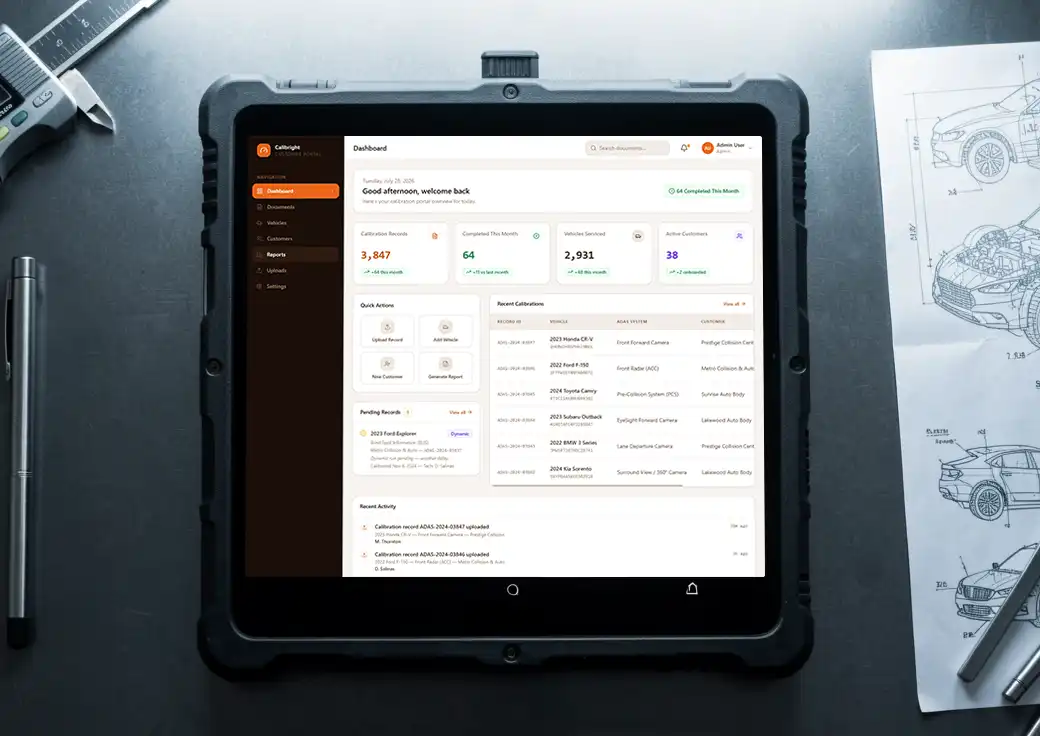
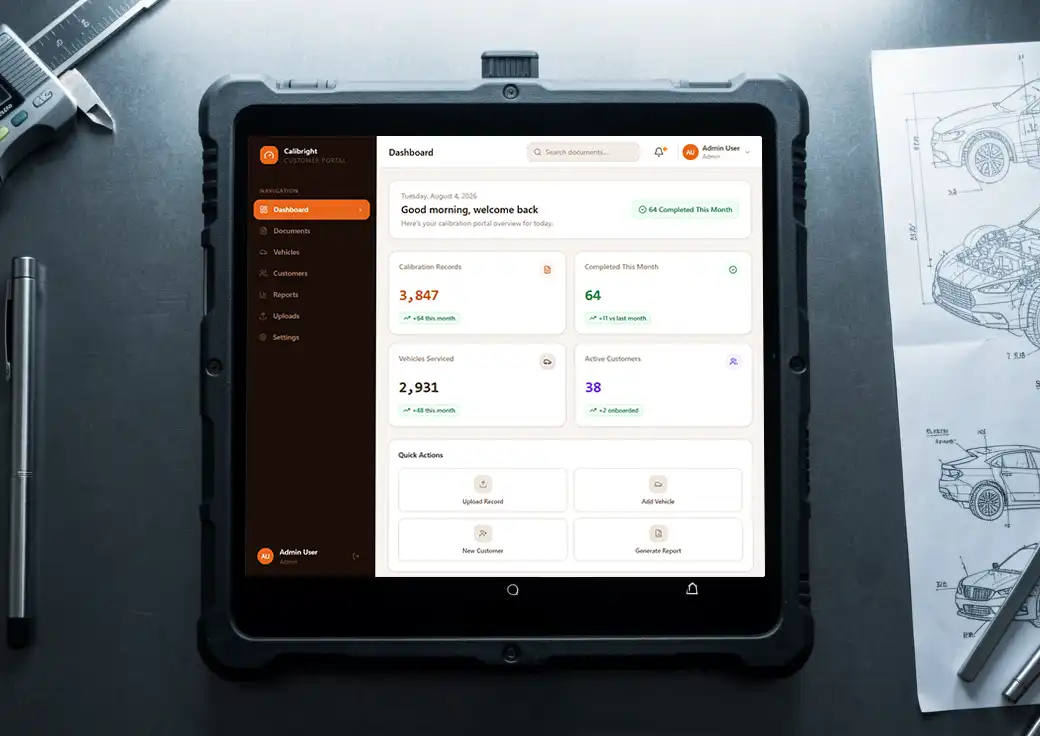
- added/replaced work gallery images - styled lightbox backdrop and navigation

diff --git a/src/config/projects.jsx b/src/config/projects.jsx
@@ -4,9 +4,9 @@ import ecPrecisionShineHero from "../assets/images/work/heros/ec-precision-shine
 
 // Gallery images (EC Precision Shine)
 // Small
-
+import ecPrecisionShineSM01 from "../assets/images/work/gallery/sm/ec-precision-shine-01_img.webp";
 // Large
-import ecPrecisionShineLG01 from "../assets/images/work/gallery/lg/ec-precision-shine_img.webp";
+import ecPrecisionShineLG01 from "../assets/images/work/gallery/lg/ec-precision-shine-01_img.webp";
 
 // Calibright ADAS Portal
 import calibrightPrev from "../assets/images/work/cards/calibright-preview_img.webp";
@@ -14,9 +14,9 @@ import calibrightHero from "../assets/images/work/heros/calibright-hero_img.webp
 
 // Gallery images (Calibright ADAS Portal)
 // Small
-
+import calibrightSM01 from "../assets/images/work/gallery/sm/calibright-01_img.webp";
 // Large
-import calibrightLG01 from "../assets/images/work/gallery/lg/calibright_img.webp";
+import calibrightLG01 from "../assets/images/work/gallery/lg/calibright-01_img.webp";
 
 
 // Enhanced Auto Leads
@@ -25,9 +25,9 @@ import enhancedLeadsHero from "../assets/images/work/heros/enhanced-automotive-l
 
 // Gallery images (Enhanced Auto Leads)
 // Small
-
+import enhancedLeadsSM01 from "../assets/images/work/gallery/sm/enhanced-automotive-leads-01_img.webp";
 // Large
-import enhancedLeadsLG01 from "../assets/images/work/gallery/lg/enhanced-automotive-leads_img.webp";
+import enhancedLeadsLG01 from "../assets/images/work/gallery/lg/enhanced-automotive-leads-01_img.webp";
 
 // Interactive Component Explorer
 import uiExplorerPrev from "../assets/images/work/cards/ui-explorer-preview_img.webp";
@@ -35,9 +35,9 @@ import uiExplorerHero from "../assets/images/work/heros/ui-explorer-hero_img.web
 
 // Gallery images (UI Explorer)
 // Small
-
+import uiExplorerSM01 from "../assets/images/work/gallery/sm/ui-explorer-01_img.webp";
 // Large
-import uiExplorerLG01 from "../assets/images/work/gallery/lg/ui-explorer_img.webp";
+import uiExplorerLG01 from "../assets/images/work/gallery/lg/ui-explorer-01_img.webp";
 
 import workExploreWorkPrev from "../assets/images/work/cards/explore-work-preview_img.webp";
 
@@ -195,8 +195,8 @@ export const PROJECTS = [
       ],
     },
     gallery: [
-      { sm: ecPrecisionShinePrev, lg: ecPrecisionShineLG01, alt: "EC Precision Shine homepage hero", caption: "Homepage hero with editorial service positioning" },
-      { sm: ecPrecisionShinePrev, lg: ecPrecisionShineLG01, alt: "EC Precision Shine service layout", caption: "Service showcase with high-contrast typography" },
+      { sm: ecPrecisionShineSM01, lg: ecPrecisionShineLG01, alt: "EC Precision Shine homepage hero", caption: "Homepage hero with editorial service positioning" },
+      { sm: ecPrecisionShineSM01, lg: ecPrecisionShineLG01, alt: "EC Precision Shine service layout", caption: "Service showcase with high-contrast typography" },
     ],
     stack: [
       { category: "Interface", items: ["React", "CSS Architecture", "Responsive Layouts"] },
@@ -321,8 +321,8 @@ export const PROJECTS = [
       ],
     },
     gallery: [
-      { sm: calibrightPrev, lg: calibrightLG01, alt: "Calibright ADAS Portal dashboard", caption: "Primary dashboard with status rail and job queue" },
-      { sm: calibrightPrev, lg: calibrightLG01, alt: "Calibright diagnostic workflow", caption: "Diagnostic context panel with progressive disclosure" },
+      { sm: calibrightSM01, lg: calibrightLG01, alt: "Calibright ADAS Portal dashboard", caption: "Primary dashboard with status rail and job queue" },
+      { sm: calibrightSM01, lg: calibrightLG01, alt: "Calibright diagnostic workflow", caption: "Diagnostic context panel with progressive disclosure" },
     ],
     stack: [
       { category: "Application", items: ["React", "TypeScript", "Component Architecture"] },
@@ -447,8 +447,8 @@ export const PROJECTS = [
       ],
     },
     gallery: [
-      { sm: enhancedLeadsPrev, lg: enhancedLeadsLG01, alt: "Enhanced Auto Leads platform", caption: "Lead-generation platform with estimator tools" },
-      { sm: enhancedLeadsPrev, lg: enhancedLeadsLG01, alt: "Payment estimator interface", caption: "Payment estimator with stepped form flow" },
+      { sm: enhancedLeadsSM01, lg: enhancedLeadsLG01, alt: "Enhanced Auto Leads platform", caption: "Lead-generation platform with estimator tools" },
+      { sm: enhancedLeadsSM01, lg: enhancedLeadsLG01, alt: "Payment estimator interface", caption: "Payment estimator with stepped form flow" },
     ],
     stack: [
       { category: "Interface", items: [...sharedStack.frontend] },
@@ -573,8 +573,8 @@ export const PROJECTS = [
       ],
     },
     gallery: [
-      { sm: uiExplorerPrev, lg: uiExplorerLG01, alt: "UI Explorer component catalog", caption: "Component explorer with live preview canvas" },
-      { sm: uiExplorerPrev, lg: uiExplorerLG01, alt: "UI Explorer theme switching", caption: "Theme switching demonstrating design token propagation" },
+      { sm: uiExplorerSM01, lg: uiExplorerLG01, alt: "UI Explorer component catalog", caption: "Component explorer with live preview canvas" },
+      { sm: uiExplorerSM01, lg: uiExplorerLG01, alt: "UI Explorer theme switching", caption: "Theme switching demonstrating design token propagation" },
     ],
     stack: [
       { category: "Interface", items: ["React", "CSS Architecture", "Animation Systems"] },

diff --git a/src/pages/Work/ProjectDetail.css b/src/pages/Work/ProjectDetail.css
@@ -78,6 +78,8 @@
   border-radius: 999px;
 }
 
+/* Media Queries */
+
 @media (width <= 1600px) {
   .section__hero-bg img {
     opacity: 0.5;
@@ -96,7 +98,7 @@
   }
 
   .section__hero-bg img {
-    opacity: 0.025;
+    opacity: 0.05;
   }   
 }
 
@@ -370,7 +372,7 @@
   margin: 0;
   padding: 0;
   border: 0;
-  background: color-mix(in srgb, #0a0a0a 78%, transparent);
+  background: url(../../assets/images/lines.png), color-mix(in srgb, #0a0a0a 78%, transparent);
   backdrop-filter: blur(10px);
   -webkit-backdrop-filter: blur(10px);
   cursor: none;
@@ -382,8 +384,8 @@
   display: flex;
   flex-direction: column;
   align-items: center;
-  width: min(100%, 72rem);
-  max-height: min(92vh, 56rem);
+  /* width: min(100%, 72rem); */
+  /* max-height: min(92vh, 56rem); */
   pointer-events: auto;
 }
 
@@ -405,7 +407,7 @@
   height: auto;
   object-fit: contain;
   border-radius: 0.5rem;
-  box-shadow: 0 24px 64px rgba(0, 0, 0, 0.45);
+  box-shadow: var(--shadow);
   animation: gallery-lightbox-image-in 0.32s var(--ease-interaction) both;
 }
 
@@ -438,29 +440,26 @@
   display: flex;
   align-items: center;
   justify-content: center;
-  border: 1px solid color-mix(in srgb, var(--color-bg-overlay) 55%, transparent);
+  border: 1px solid color-mix(in srgb, var(--color-primary) 55%, transparent);
   border-radius: 999px;
-  background: color-mix(in srgb, var(--color-bg-elevated) 72%, transparent);
+  background: color-mix(in srgb, var(--color-primary-active) 72%, transparent);
   color: var(--color-text-primary);
-  transition:
-    color 0.25s var(--ease-interaction),
-    border-color 0.25s var(--ease-interaction),
-    background 0.25s var(--ease-interaction);
+  transition: color 0.25s var(--ease-interaction), border-color 0.25s var(--ease-interaction), background 0.25s var(--ease-interaction);
 }
 
 .gallery-lightbox__close:hover,
 .gallery-lightbox__close:focus-visible,
 .gallery-lightbox__nav:hover,
 .gallery-lightbox__nav:focus-visible {
-  color: var(--color-primary);
+  /* color: var(--color-primary); */
   border-color: var(--color-primary-tint);
-  background: color-mix(in srgb, var(--color-bg-surface) 80%, transparent);
+  background: color-mix(in srgb, var(--color-primary) 80%, transparent);
   outline: none;
 }
 
 .gallery-lightbox__close {
-  top: 0;
-  right: 0;
+  top: 0.625rem;
+  right: 0.625rem;
   width: 2.75rem;
   height: 2.75rem;
   font-size: 1.5rem;
@@ -477,11 +476,11 @@
 }
 
 .gallery-lightbox__nav--prev {
-  left: 0;
+  left: 0.625rem;
 }
 
 .gallery-lightbox__nav--next {
-  right: 0;
+  right: 0.625rem;
 }
 
 @keyframes gallery-lightbox-in {
@@ -572,7 +571,8 @@
 /* ========================================================================== */
 
 .project-detail__nav {
-  border-top: 1px solid color-mix(in srgb, var(--color-bg-overlay) 35%, transparent);
+  background-color: var(--color-bg-elevated-tint);
+  /* border-top: 1px solid color-mix(in srgb, var(--color-bg-overlay) 35%, transparent); */
 }
 
 .project-nav {

diff --git a/src/components/ui/SideAnchorNavigation/SideAnchorNavigation.css b/src/components/ui/SideAnchorNavigation/SideAnchorNavigation.css
@@ -192,8 +192,8 @@
     gap: 0.5rem;
     overflow-x: auto;
     scrollbar-width: none;
-    -webkit-mask-image: linear-gradient(to right, rgba(0, 0, 0, 0) 0%, var(--color-bg-base) 3%, var(--color-bg-base) 97%, rgba(0, 0, 0, 0) 100%);
-    mask-image: linear-gradient(to right, rgba(0, 0, 0, 0) 0%, var(--color-bg-base) 3%, var(--color-bg-base) 97%, rgba(0, 0, 0, 0) 100%);    
+    -webkit-mask-image: linear-gradient(to right, rgba(0, 0, 0, 0) 0%, var(--color-bg-base) 5%, var(--color-bg-base) 95%, rgba(0, 0, 0, 0) 100%);
+    mask-image: linear-gradient(to right, rgba(0, 0, 0, 0) 0%, var(--color-bg-base) 5%, var(--color-bg-base) 95%, rgba(0, 0, 0, 0) 100%);    
     border-radius: 0.5rem;    
   }
 

diff --git a/src/pages/Work/ProjectDetail.jsx b/src/pages/Work/ProjectDetail.jsx
@@ -402,7 +402,7 @@ function ProjectDetail() {
                 </dd>
               </div>
             </dl>
-            <div className="hero__content-actions flex-all flex-wrap gap-column-2">
+            <div className="hero__content-actions flex-all flex-wrap gap-2">
               {project.url && (
                 <Btn to={project.url} target="_blank" primary className="btn btn-primary magnetic magnetic--subtle" data-cursor="accent">
                   Visit Website

diff --git a/src/styles/global.css b/src/styles/global.css
@@ -287,6 +287,14 @@ img {
   font-size: 0.875rem;
 }
 
+.gap-1 {
+  gap: 1rem;
+}
+
+.gap-2 {
+  gap: 2rem;
+}
+
 .gap-row-1 {
   row-gap: 1rem;
 }
